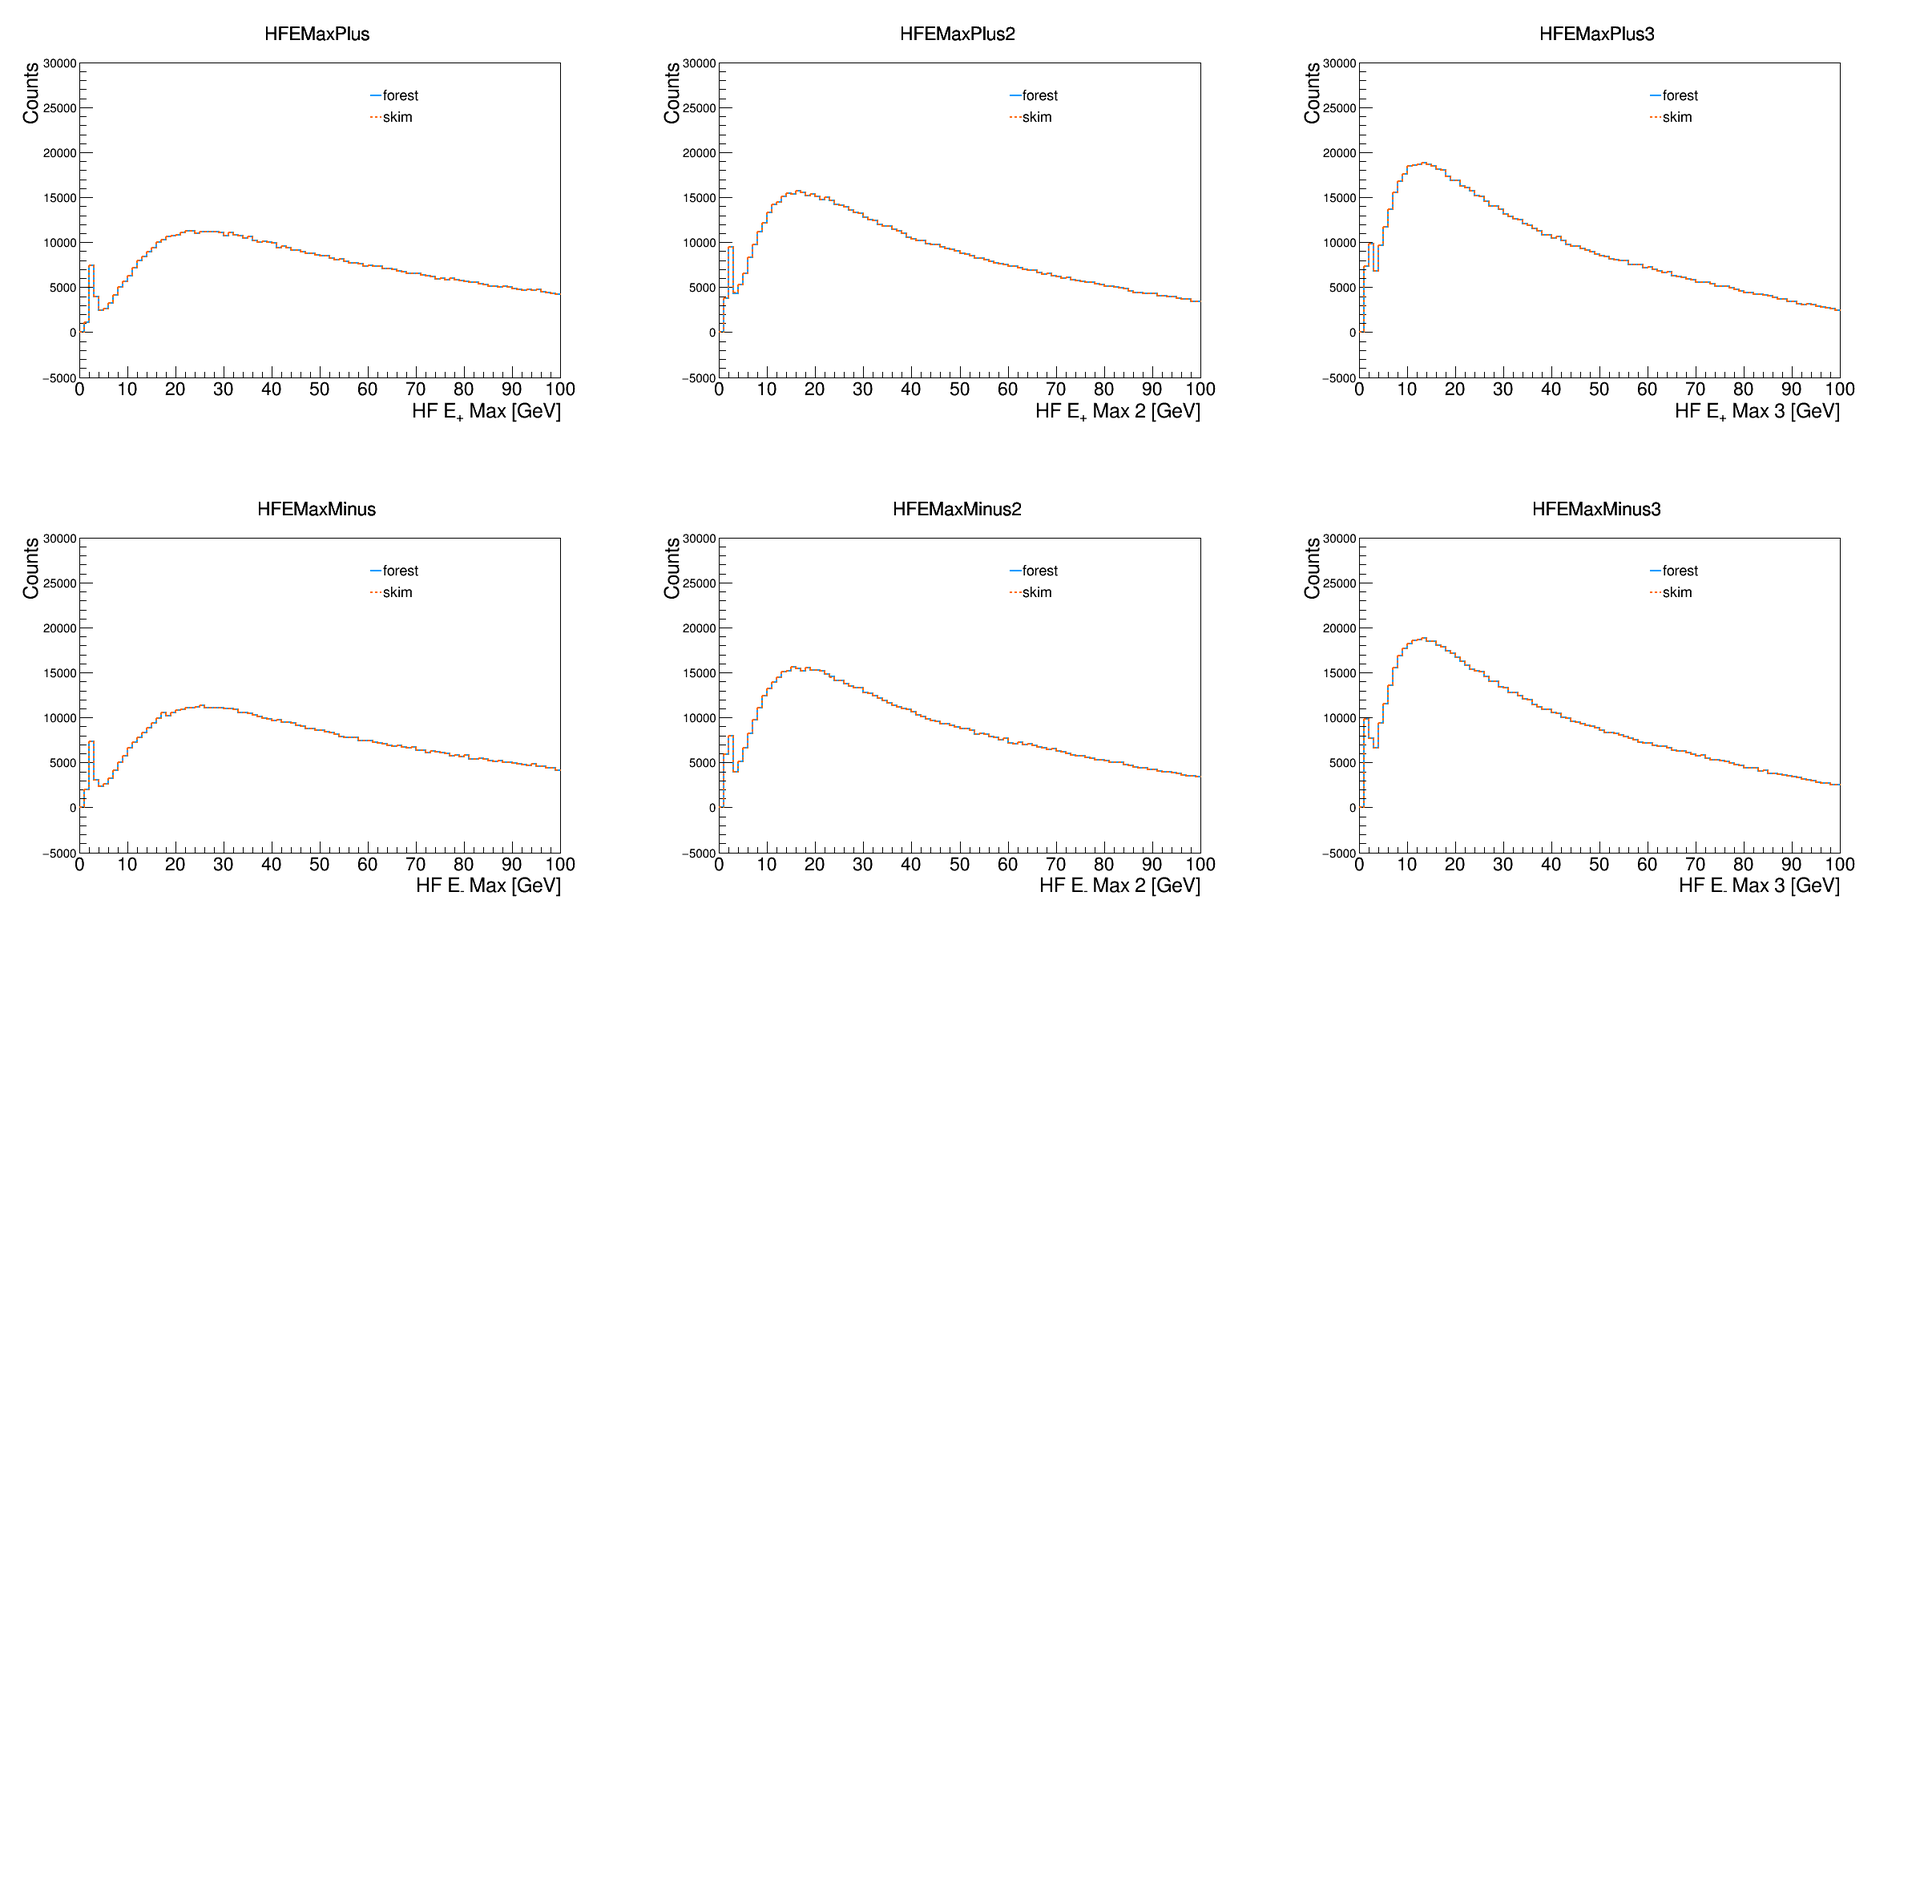
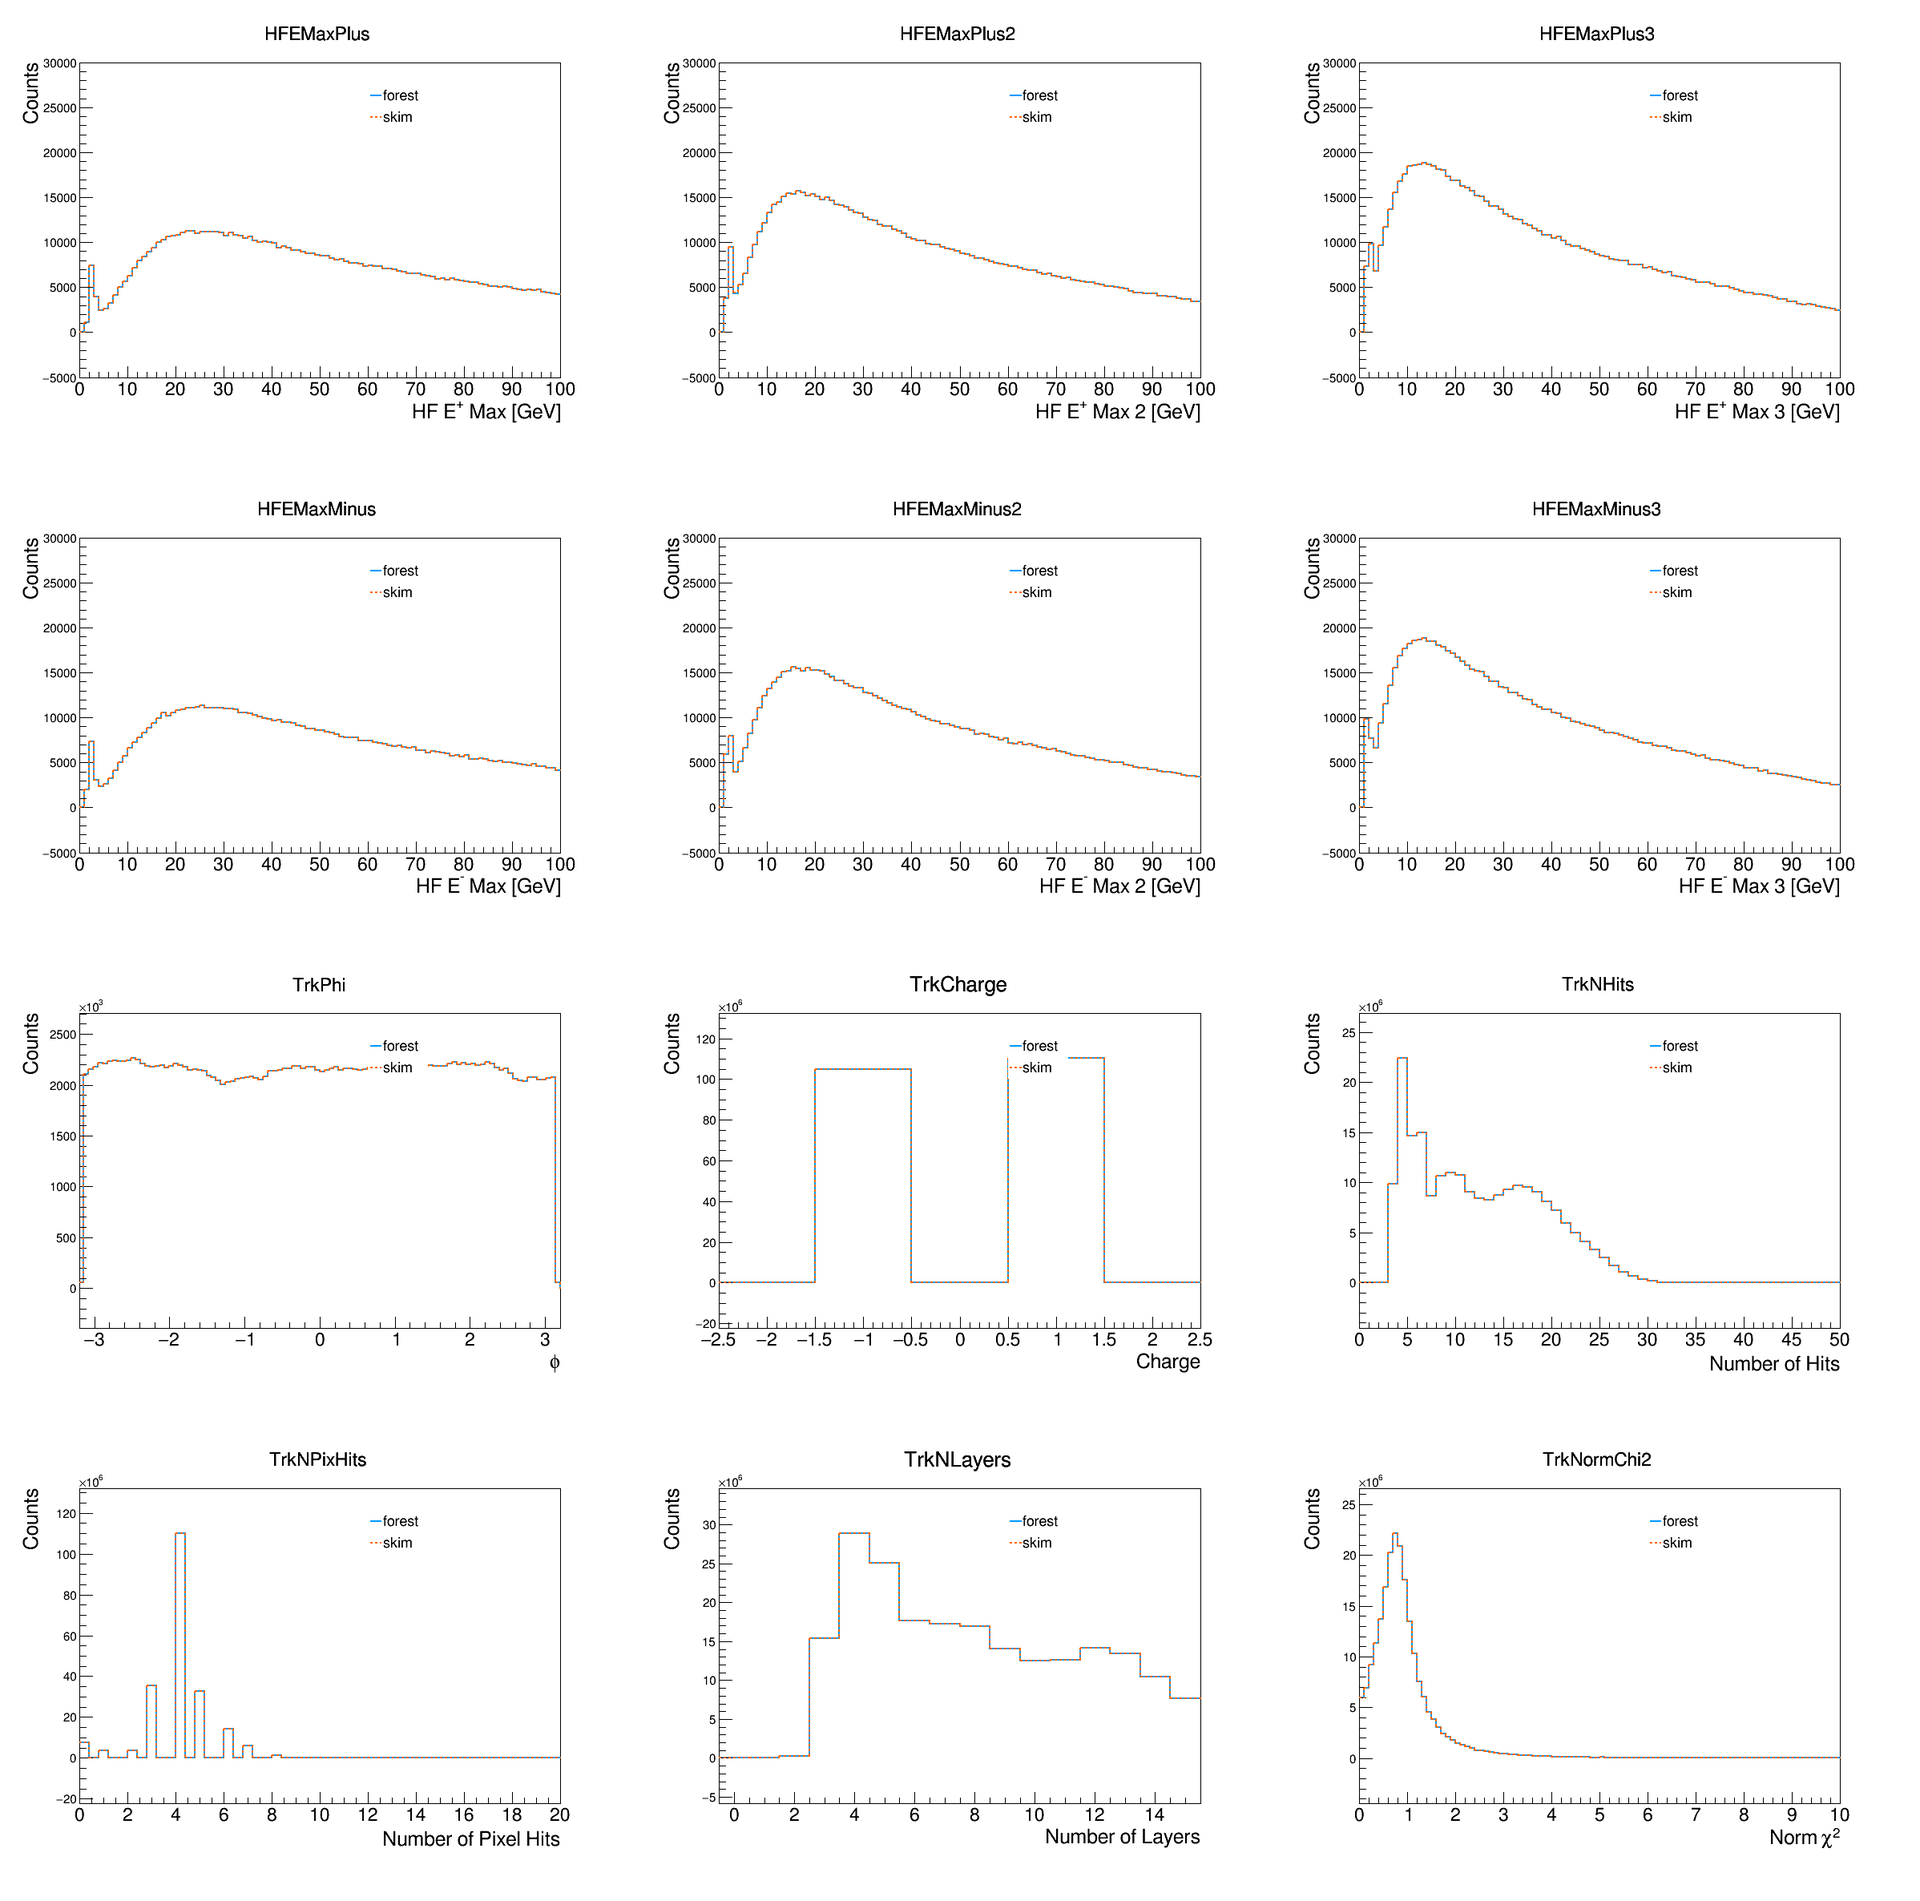
svmithi03 push

diff --git a/20250522_SkimValidation/plotForest.C b/20250522_SkimValidation/plotForest.C
@@ -680,7 +680,7 @@ void plotForest(const char* forestInput =   "output/skimValidation_forest.root",
         false, false
     );
 
-    c1->cd(7);
+    c2->cd(7);
     plotSimple(
         hTrkPhi, "TrkPhi", labels,
         "#phi", -3.2, 3.2,
@@ -688,7 +688,7 @@ void plotForest(const char* forestInput =   "output/skimValidation_forest.root",
         false, false
     );
 
-    c1->cd(8);
+    c2->cd(8);
     plotSimple(
         hTrkCharge, "TrkCharge", labels,
         "Charge", -2, 2,
@@ -696,7 +696,7 @@ void plotForest(const char* forestInput =   "output/skimValidation_forest.root",
         false, false
     );
 
-    c1->cd(9);
+    c2->cd(9);
     plotSimple(
         hTrkNHits, "TrkNHits", labels,
         "Number of Hits", -1, -1,
@@ -704,7 +704,7 @@ void plotForest(const char* forestInput =   "output/skimValidation_forest.root",
         false, false
     );
 
-    c1->cd(10);
+    c2->cd(10);
     plotSimple(
         hTrkNPixHits, "TrkNPixHits", labels,
         "Number of Pixel Hits", -1, -1,
@@ -712,7 +712,7 @@ void plotForest(const char* forestInput =   "output/skimValidation_forest.root",
         false, false
     );
 
-    c1->cd(11);
+    c2->cd(11);
     plotSimple(
         hTrkNLayers, "TrkNLayers", labels,
         "Number of Layers", -1, -1,
@@ -720,7 +720,7 @@ void plotForest(const char* forestInput =   "output/skimValidation_forest.root",
         false, false
     );
 
-    c1->cd(12);
+    c2->cd(12);
     plotSimple(
         hTrkNormChi2, "TrkNormChi2", labels,
         "Norm #chi^{2}", -1, -1,
